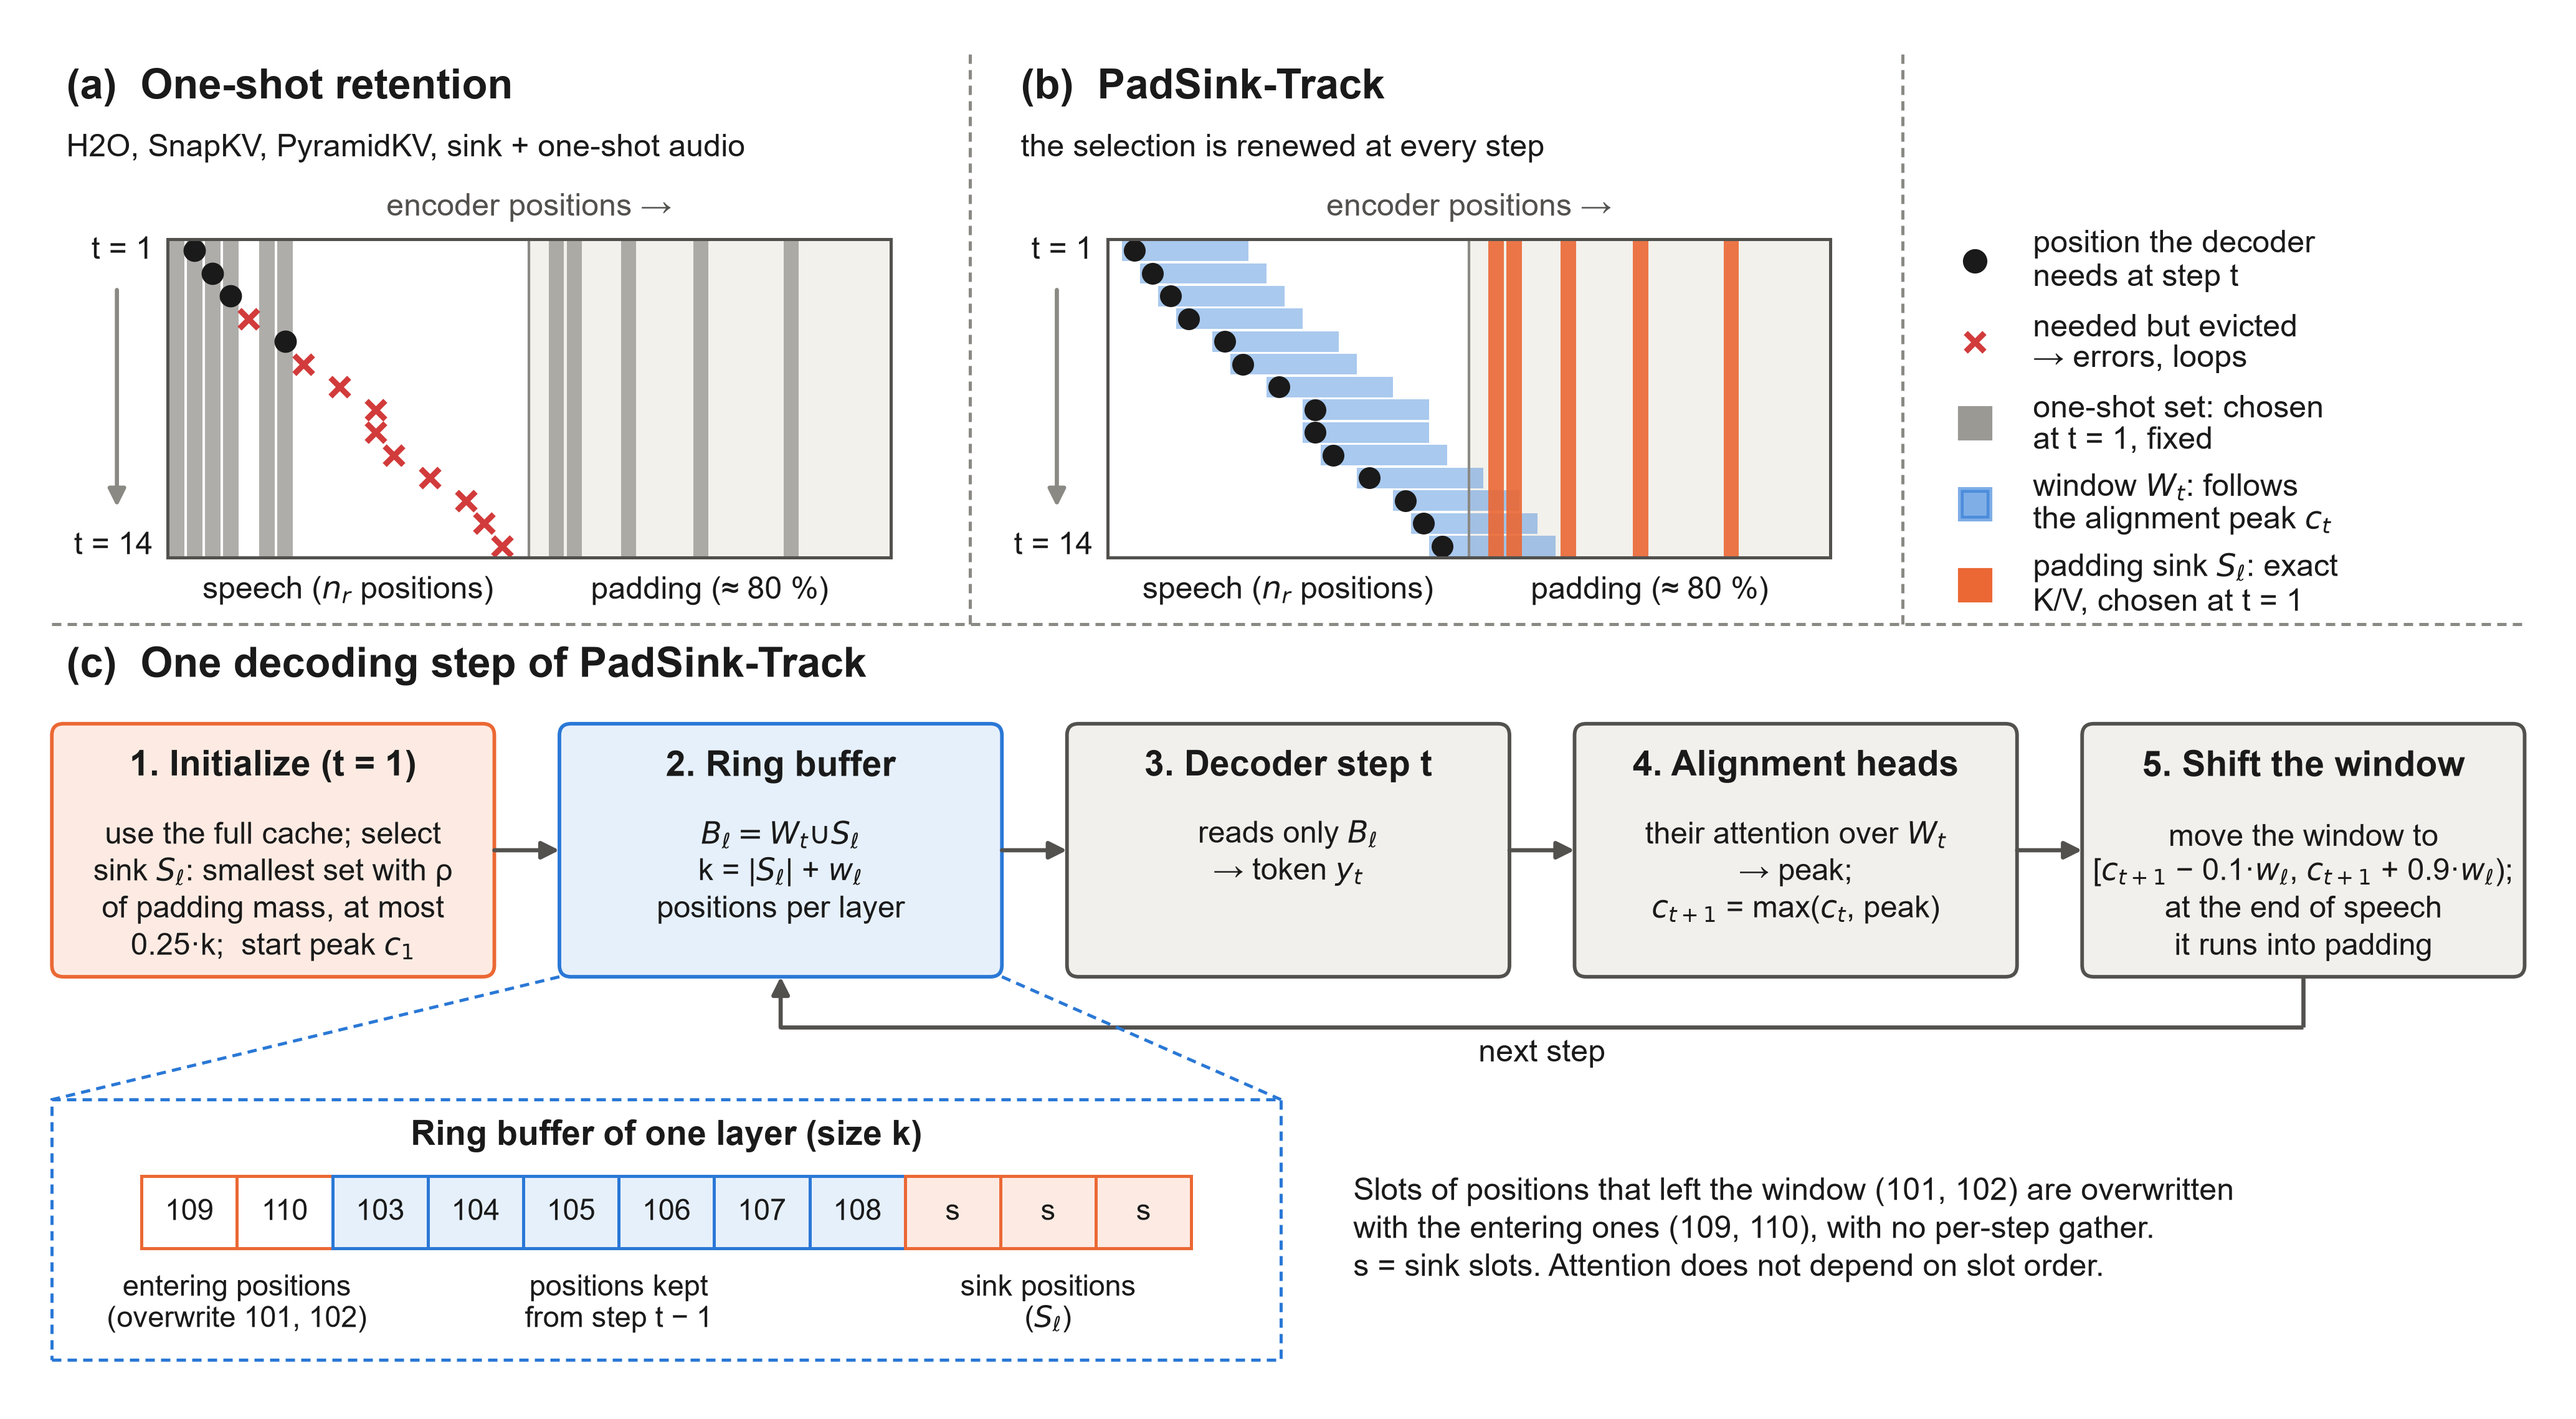
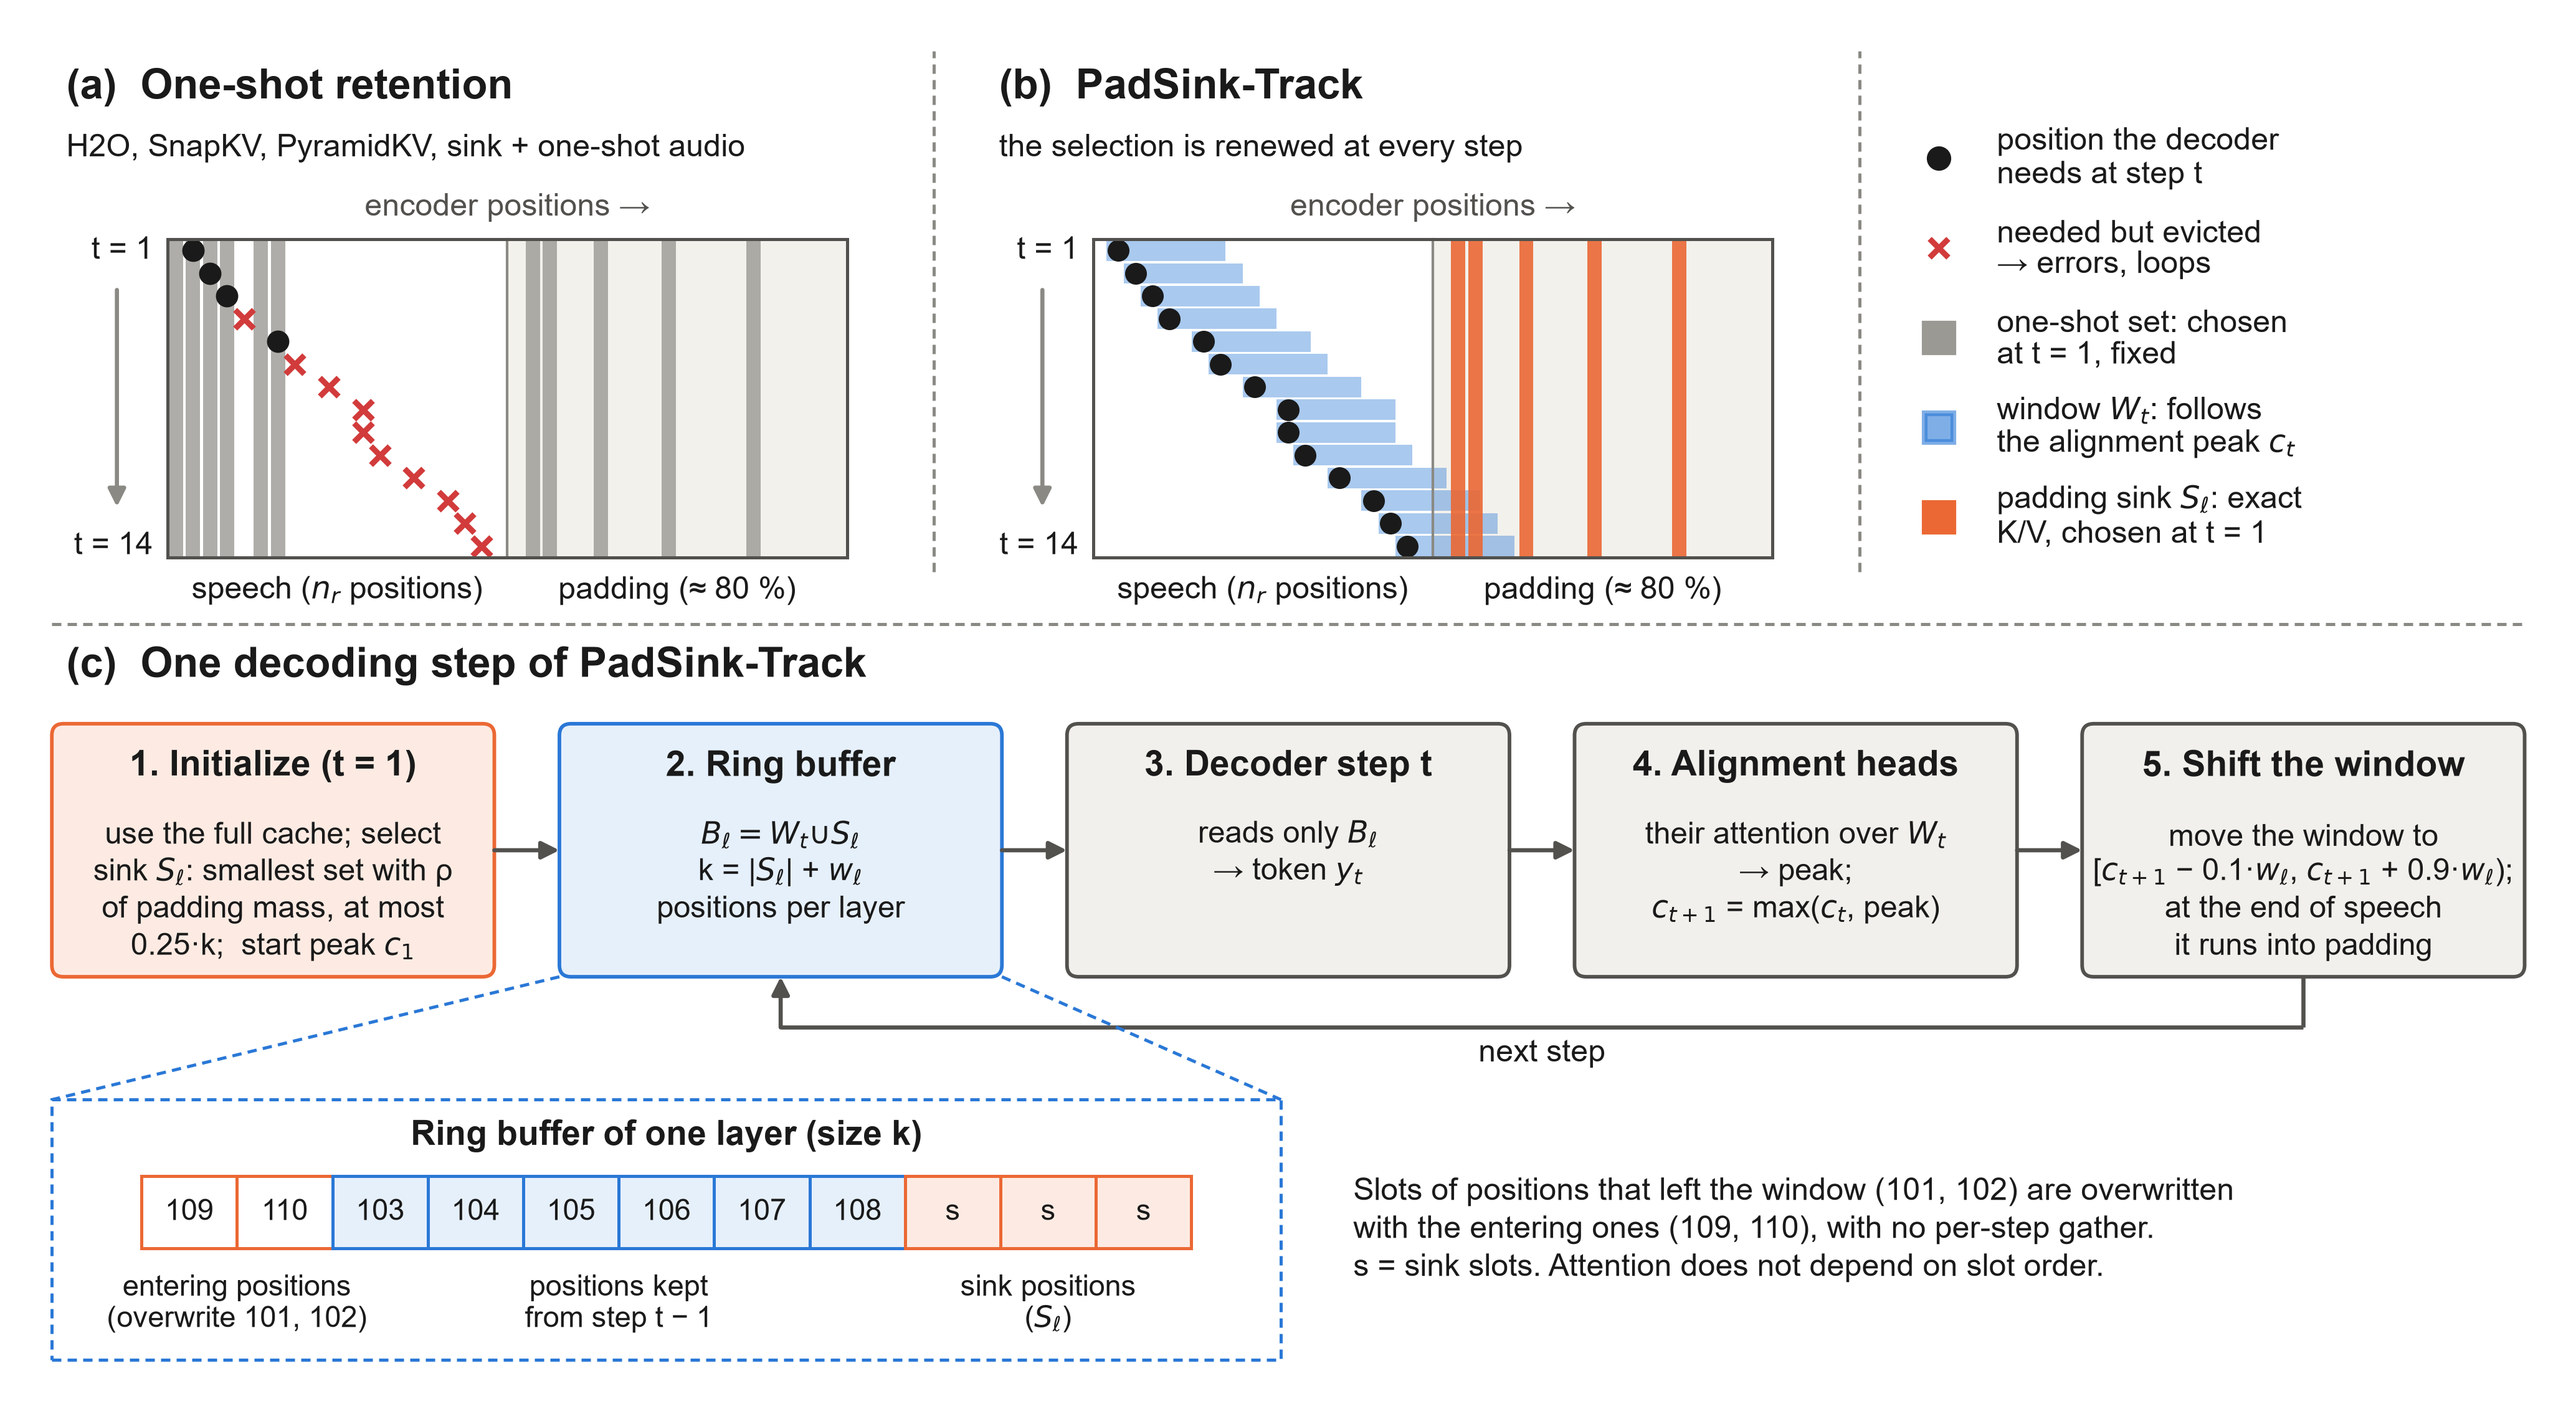
Method schematic: panel spacing, detached separators, centred legend

diff --git a/experiments/make_figure_method2.py b/experiments/make_figure_method2.py
@@ -42,7 +42,7 @@ def main():
     rng = np.random.default_rng(7)
     need = np.clip(np.round(np.linspace(1, RN - 2, T) + rng.normal(0, 0.5, T)), 0, RN - 1).astype(int)
     sinks = np.array([RN + 1, RN + 2, RN + 5, RN + 9, RN + 14])
-    gw, y_top, y_bot = 50.0, 103.0, 81.0
+    gw, y_top, y_bot = 47.0, 103.0, 81.0
     cw, rh = gw / P, (y_top - y_bot) / T
 
     def grid(x0, xt, title, sub):
@@ -70,10 +70,10 @@ def main():
         ax.plot(cx(p_), cy(t_), marker="o" if hit else "x", ms=3.2 if hit else 3.6, color=INK if hit else RED, mew=1.1, zorder=3)
 
     # (b) PadSink-Track: the peak sits 0.1 w from the left edge of the window
-    cx, cy = grid(74, 68, "(b)  PadSink-Track", "the selection is renewed at every step")
+    cx, cy = grid(73, 66.5, "(b)  PadSink-Track", "the selection is renewed at every step")
     w = 7
     for t_, p_ in enumerate(need):
-        left = max(cx(p_) - 0.1 * w * cw, 74)
+        left = max(cx(p_) - 0.1 * w * cw, 73)
         ax.add_patch(Rectangle((left, cy(t_) - rh * 0.45), w * cw, rh * 0.9, fc=BLUE, alpha=0.4, ec="none"))
     for p_ in sinks:
         ax.add_patch(Rectangle((cx(p_) - cw * 0.42, y_bot), cw * 0.84, y_top - y_bot, fc=ORANGE, alpha=0.9, ec="none"))
@@ -87,13 +87,13 @@ def main():
              (BLUE, "s", "window $W_t$: follows\nthe alignment peak $c_t$"),
              (ORANGE, "s", "padding sink $S_ℓ$: exact\nK/V, chosen at t = 1")]
     for n, (col, mk, txt) in enumerate(items):
-        y = 101.5 - n * 5.6
-        ax.plot(134, y, marker=mk, ms=5.5 if mk == "s" else 3.6, color=col, mew=1.1, alpha=0.6 if col == BLUE else 1)
-        ax.text(138, y, txt, linespacing=1.15, **t)
+        y = 108.6 - n * 6.2                    # centred in the legend column
+        ax.plot(131.5, y, marker=mk, ms=5.5 if mk == "s" else 3.6, color=col, mew=1.1, alpha=0.6 if col == BLUE else 1)
+        ax.text(135.5, y, txt, linespacing=1.15, **t)
 
     # separators between the panels and the legend
-    for xa in (64.5, 129.0):
-        ax.plot([xa, xa], [76.4, 116], color=MUTED, lw=0.6, ls=DASH)
+    for xa in (62.0, 126.0):
+        ax.plot([xa, xa], [80, 116], color=MUTED, lw=0.6, ls=DASH)
     ax.plot([1, 172], [76.4, 76.4], color=MUTED, lw=0.6, ls=DASH)
 
     # (c) the step loop
